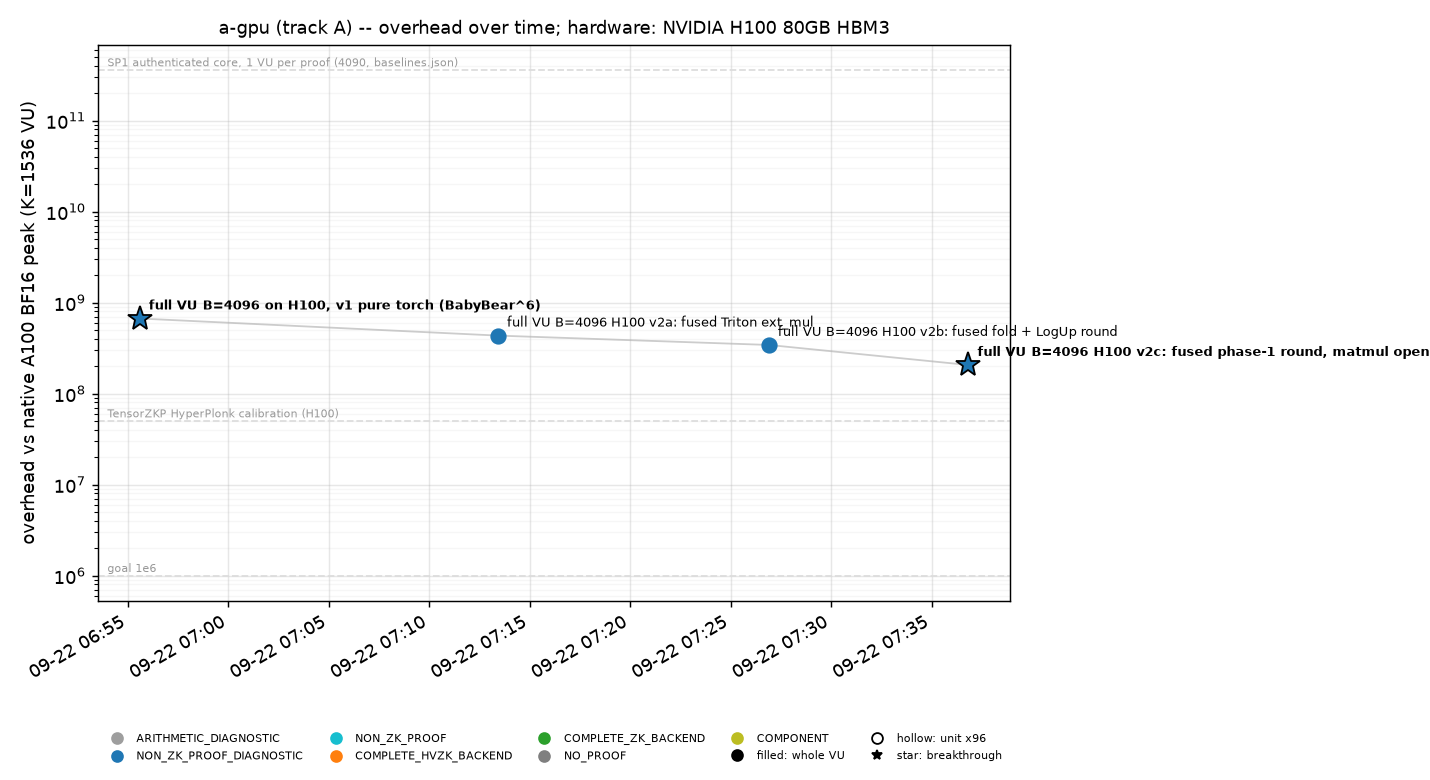
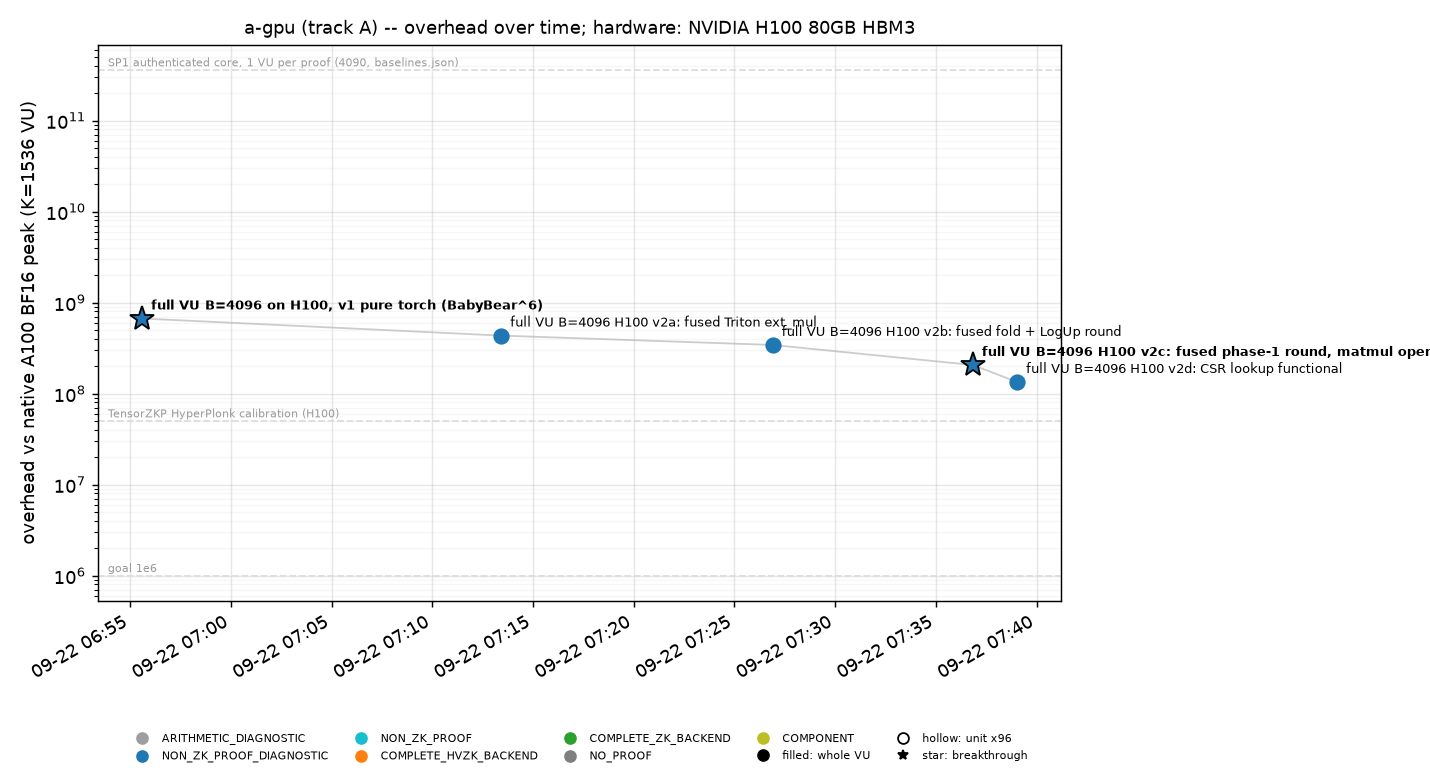
gkr/gpu: README (runs table, negatives, how to run, kernels), DESIGN kernel plan v2/v3; a-gpu ledger v2d 5.41 s (r20260922-073524-64ff)

diff --git a/backends/gkr/gpu/README.md b/backends/gkr/gpu/README.md
@@ -1,0 +1,85 @@
+# Candidate A on the GPU (torch + Triton, BabyBear^6)
+
+Track A's prover (GKR + LogUp + Ligero, `../PROTOCOL.md`) for the **full K=1536 VU** (96 chained units + epilogue,
+PROTOCOL §12) at **batch 4096 on one H100**, in Python/torch with fused Triton kernels, over `F_{p^6}`,
+`p = 2^31 - 2^27 + 1`.  Design: `DESIGN.md`.  Protocol and relation are those of the CPU Rust crate (`../src/`)
+with the field changed and the sub-16-bit range check fixed (DESIGN §1); the proof is checked by the Python verifier
+in `prover.py` (`verify`), a faithful port of `../src/` over the new field (the Rust verifier is Goldilocks-only, so
+it cannot check these proofs directly; the Python verifier is the same code path that rejects the negatives).
+
+## Runs (H100 80GB HBM3, B = 4096 VUs = 393 216 units + 4096 epilogues, `research run` ids in the ledger)
+
+| version | commit | what changed | prover median of 3 | split (lookup / arith / open / commit) | verifier |
+|---|---|---|---|---|---|
+| v1 | 517dc4e | pure torch | 26.95 s | 10.82 / 8.91 / 6.71 / 0.47 | 10.0 s |
+| v2a | 53ad266 | fused `ext_mul` (Montgomery SIMT) | 17.50 s | 5.48 / 5.74 / 5.74 / 0.45 | 9.4 s |
+| v2b | 581c6e5 | fused fold + LogUp degree-3 round | 13.81 s | 1.53 / 5.39 / 6.38 / 0.45 | 9.8 s |
+| v2c | 0d6437c | fused GKR phase-1 round; opening as tensor-core matmuls | 8.32 s | 1.49 / 1.85 / 4.46 / 0.45 | 8.9 s |
+| v2d | 428db0b | lookup functional as a CSR scatter kernel | **5.41 s** | 1.53 / 1.95 / 1.41 / 0.45 | 7.1 s |
+
+Every run: 4096/4096 `vu-k1536` accepted with the recorded words, proof 33.9 MB (6086 extension elements + Ligero
+opening), `rounds.sequential_depth` 438 (circuit 197, LogUp R16 435), 1920 transcript slots, peak device memory
+65.7 GB (v1-v2c) / 46.8 GB (v2d), 177.8 M committed base elements in 43 417 Ligero rows.  Reference: the CPU Rust prover, 12 threads,
+297.6 s for the same batch (Goldilocks).  The verifier is Python (transcript replay + Merkle paths in `hashlib`),
+not optimised.
+
+Soundness (`security.accounting.account_candidate_a`, BabyBear^6, Ligero `k = 4096, n = 16384, t = 192`):
+2^-127.7, dominated by the generic SHA-256 collision term; ledger security field `2^-127.7`, proof class
+`NON_ZK_PROOF_DIAGNOSTIC`, authentication excluded, omitted: ZK masking, external authentication.
+
+## Negatives
+
+`vu-k1536-neg` (52 instances): 52/52 rejected — 8 at witness generation (`bf16.t`/`acc.t: 255 not in [0, 255)`,
+a hint outside its table range, i.e. the prover cannot even build an in-domain witness) and 44 by the verifier
+(`assertions phase-2a: round 0 sum mismatch`: the assertion layer's claimed zero is not zero).  An accepted negative
+would be a soundness bug; there are none.  Re-run with `negatives` below.
+
+## How to run
+
+On the pod (`/workspace/venv312/bin/python` = torch cu124 + Triton; `cupy-cuda12x` for `hash_gpu`):
+
+~~~
+cd backends/gkr
+# operands (bench-instances/v1, tier vu-k1536 and vu-k1536-neg) then the BabyBear export
+python -m verity_numerical.bench.instances build
+PYTHONPATH=. python -m gpu.bb_export export --root bench-instances/v1 --tier vu-k1536 --hi 4096 --out /workspace/bb/pos4096 --procs 16
+PYTHONPATH=. python -m gpu.bb_export export --root bench-instances/v1 --tier vu-k1536-neg --out /workspace/bb/neg --procs 16
+# prove + verify (median of --reps), JSON record with the split
+PYTHONPATH=. python -m gpu.run prove /workspace/bb/pos4096 --device cuda --reps 3 --json out.json
+PYTHONPATH=. python -m gpu.run prove /workspace/bb/pos4096 --vus 64 --device cuda          # the 64-VU gate
+PYTHONPATH=. python -m gpu.run negatives /workspace/bb/neg --device cuda --json neg.json   # all must be rejected
+~~~
+
+Laptop (CPU, no Triton, < 30 s): a synthetic 2-VU, 3-step batch through the whole prover and verifier, PCS included:
+
+~~~
+PYTHONPATH=backends/gkr python -m gpu.bb_export synth --out /tmp/bbsynth --vus 2 --steps 3
+PYTHONPATH=backends/gkr python -m gpu.run prove /tmp/bbsynth --device cpu
+~~~
+
+`VERITY_GPU_TORCH_ONLY=1` disables every Triton kernel (the torch path is the bit-exact reference the kernels are
+tested against; `--clear` skips the commitment and opening for a clear-mode diagnostic).
+
+## Where the time goes (v2d, profiler with per-call syncs, B = 4096)
+
+`Layer.eval_gates` 1.3 s (fp64 tensor-core matmuls of the layer input rows against the dense gate matrices),
+Ligero opening 1.3 s (0.84 s in the `Mᵀ (aᵀ X) M` matmuls, the rest Merkle paths + column extraction), LogUp
+level combine 0.7 s, LogUp folds 0.54 s (6562 small launches), phase-1 rounds 0.45 s, LogUp rounds 0.43 s,
+commit 0.38 s (NTT butterflies + SHA-256 Merkle via `hash_gpu`), eq tables 0.3 s.  Next: sparse gate evaluation
+(the gate matrices have a handful of terms per row, the same CSR trick as the lookup functional), int32 storage of
+the folded tables, fusing the fold into the round kernels, a batched NTT for the commitment.
+
+## Kernels (`kernels.py`, all bit-exact against the torch path incl. `p-1` edge values)
+
+* `ext_mul`: elementwise `F_{p^6}` product, 32-bit Montgomery (`mul.lo + umulhi + cond. add` per base product,
+  `X^6 = 31` via pre-scaled `31 R`), canonical in/out.  2^24 products: 13.2 ms (torch) -> 1.31 ms.
+* `fold`: `v[i] + (v[i+half] - v[i]) r` for base or extension tables, 2^22 elements 2.0 -> 0.19 ms.
+* `logup_round`: the LogUp degree-3 round at 4 points in one pass (`p0 q1 + p1 q0 + λ q0 q1`, `eq`-weighted,
+  block partials reduced on the host): 5.6 -> 0.39 ms at 2^18.
+* `phase1`: the GKR copy-round `h(t) = Σ_c e_t(c) Σ_g w_g a_t(c,g) b_t(c,g)` with 2D tiles over copies x gates:
+  591 -> 6 ms at 2^18 x 64 gates (extension), 12.8 -> 0.8 ms (base).
+* `scatter_terms`: the lookup functional `v[u, idx] += Σ e[u, j] c_{j,idx}` over the sparse (query, column) terms
+  (CSR by column), replacing a `(units, 3546) x (3546, 2712)` fp64 matmul per table.
+* Ligero opening (`ligero.open_w_qc`): `w = rᵀ X`, `G = Mᵀ (aᵀ X) M` with `M` the INTT matrix, `qc[m] = Σ_{u+v=m} G[u, v]`
+  (all `mm_mod` = exact 16-bit-limb float64 matmuls on tensor cores); `open_w_qc_reference` is the v1
+  encode-multiply-INTT path kept for the equality test.

diff --git a/backends/gkr/gpu/DESIGN.md b/backends/gkr/gpu/DESIGN.md
@@ -82,13 +82,15 @@ structural), plus the negatives.
 
 ## 5. Kernel plan
 
-* v1 (this commit): everything as torch ops (int64 elementwise, `%` reductions, float64 limb matmuls for every
-  contraction; `hash_gpu` for SHA-256).  Goal: a correct end-to-end proof of the full VU on the H100.
-* v2: replace the phase-1 round kernel (the `a_t·b_t` products + `Σ_g w_g` contraction + `eq` weight, 4 evaluation
-  points, both tables) with one fused Triton kernel over BabyBear^6 in registers (the `a-fused` lane's SIMT
-  variant or a local one; `../tensor/reference.py` is the bit-exact reference), and the LogUp `round_poly` with the
-  same kernel shape; store the folded tables as int32.
-* v3: fuse the fold into the round kernel (read once per round), profile, attack the top bucket.
+* v1: everything as torch ops (int64 elementwise, `%` reductions, float64 limb matmuls for every
+  contraction; `hash_gpu` for SHA-256).  A correct end-to-end proof of the full VU on the H100: 26.95 s.
+* v2 (done, `kernels.py`, each step bit-exact against the torch path and on the ledger): fused Triton SIMT
+  BabyBear^6 kernels in 32-bit Montgomery form for `ext_mul`, the fold, the LogUp degree-3 round, the GKR phase-1
+  round (2D tiles over copies x gates), and the lookup functional as a CSR scatter over the sparse (query, column)
+  terms; the Ligero opening as modular matmuls on tensor cores (`G = Mᵀ (aᵀ X) M`).  8.3 s at v2c.  The torch path
+  stays as the reference (`VERITY_GPU_TORCH_ONLY=1`).
+* v3 (next): sparse gate evaluation (`Layer.eval_gates`), int32 storage of the folded tables, the fold fused into
+  the round kernels (one read per round), a batched NTT for the commitment, a compiled verifier.
 
 ## 6. Memory (B = 4096)
 
